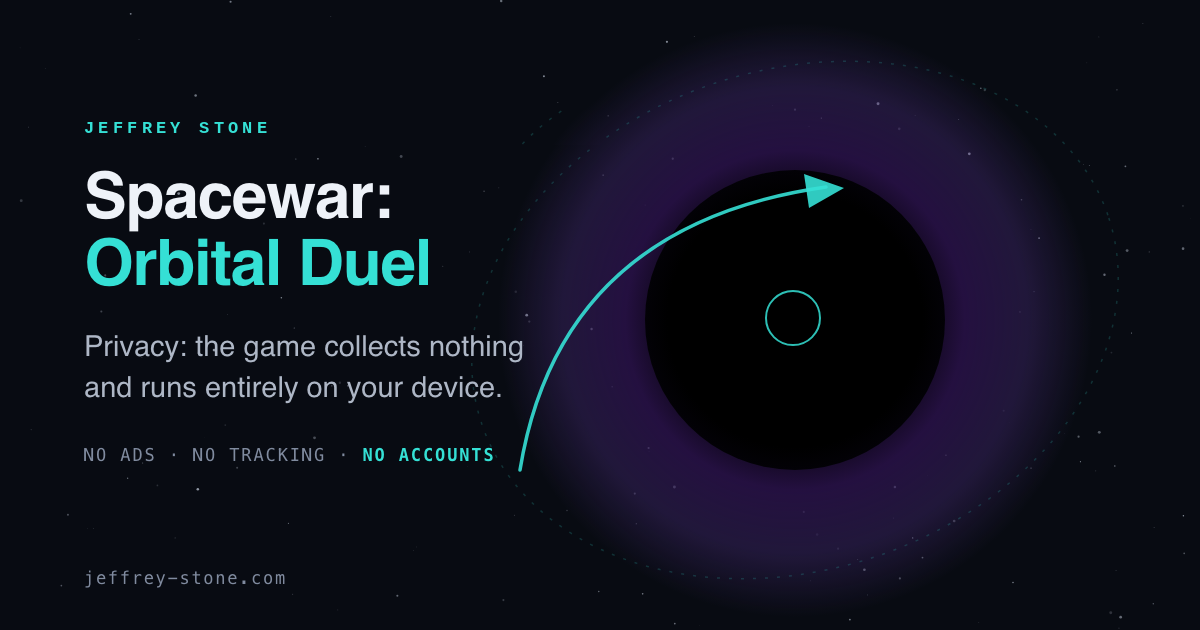
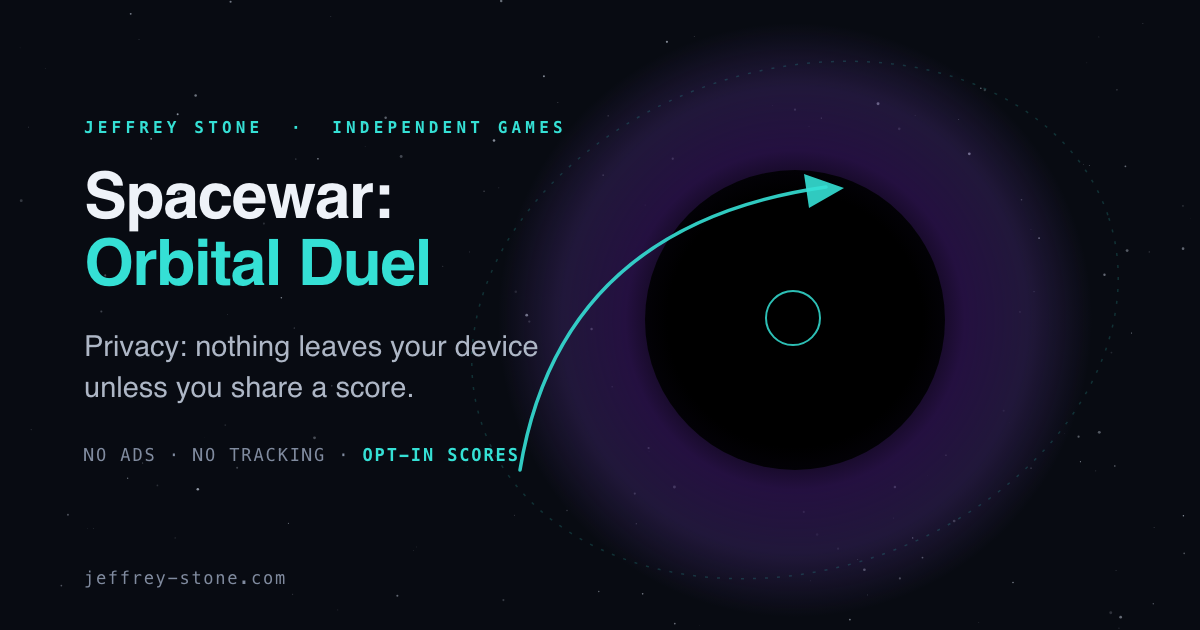
Publish site

diff --git a/spacewar/privacy/index.html b/spacewar/privacy/index.html
@@ -4,10 +4,10 @@
 <meta charset="utf-8">
 <meta name="viewport" content="width=device-width, initial-scale=1">
 <title>Spacewar privacy | Jeffrey Stone</title>
-<meta name="description" content="Privacy policy for Spacewar: Orbital Duel. The game collects nothing: no analytics, no ads, no accounts, no network services.">
+<meta name="description" content="Privacy policy for Spacewar: Orbital Duel. The game collects nothing unless you share a high score: no analytics, no ads, no accounts.">
 <meta name="color-scheme" content="dark">
 <meta property="og:title" content="Privacy | Spacewar: Orbital Duel">
-<meta property="og:description" content="Spacewar collects nothing. It runs entirely on your device.">
+<meta property="og:description" content="Spacewar collects nothing unless you share a score. It runs on your device.">
 <meta property="og:type" content="website">
 <meta property="og:site_name" content="Jeffrey Stone">
 <link rel="canonical" href="https://jeffrey-stone.com/spacewar/privacy/">
@@ -15,10 +15,10 @@
 <meta property="og:image" content="https://jeffrey-stone.com/assets/og-privacy.png">
 <meta property="og:image:width" content="1200">
 <meta property="og:image:height" content="630">
-<meta property="og:image:alt" content="Spacewar: Orbital Duel. Privacy: the game collects nothing and runs entirely on your device.">
+<meta property="og:image:alt" content="Spacewar: Orbital Duel. Privacy: the game collects nothing unless you share a score.">
 <meta name="twitter:card" content="summary_large_image">
 <meta name="twitter:title" content="Privacy | Spacewar: Orbital Duel">
-<meta name="twitter:description" content="Spacewar collects nothing. It runs entirely on your device.">
+<meta name="twitter:description" content="Spacewar collects nothing unless you share a score. It runs on your device.">
 <meta name="twitter:image" content="https://jeffrey-stone.com/assets/og-privacy.png">
 <link rel="icon" type="image/svg+xml" href="../../assets/icon.svg">
 <link rel="icon" href="../../assets/apple-touch-icon.png" sizes="180x180">
@@ -47,16 +47,29 @@
   <div class="wrap">
     <p class="crumb"><a href="../../spacewar/">&larr; Spacewar: Orbital Duel</a></p>
     <p class="eyebrow">Privacy</p>
-    <h1>Spacewar collects nothing</h1>
+    <h1>Spacewar collects nothing unless you share a score</h1>
   </div>
 </div>
 
 <section>
   <div class="wrap">
     <div class="prose">
-<!-- spacewar-privacy -->\n      <p>Spacewar: Orbital Duel does not collect, store, or transmit any personal data. The game runs entirely on your device. It uses no analytics, no advertising, no accounts, and no network services. Nothing is gathered by the developer or shared with any third party.</p>
-      <p>Because the game gathers no data, there is nothing to request, correct, or delete. If Apple's TestFlight and App Store, or Google Play, collect anything as part of distributing the game, that is governed by <a href="https://www.apple.com/legal/privacy/">Apple's privacy policy</a> or <a href="https://policies.google.com/privacy">Google's privacy policy</a>, not this one.</p>
-\n<!-- /spacewar-privacy -->      <p class="mono-line muted" style="font-family:var(--font-mono); font-size:14px; margin-top:28px; color:var(--muted);">Questions: <a href="../../support/">support</a> &nbsp;·&nbsp; <a href="mailto:support@jeffrey-stone.com">support@jeffrey-stone.com</a> &nbsp;·&nbsp; Last updated November 2026</p>
+<!-- spacewar-privacy -->
+      <p>Spacewar: Orbital Duel runs on your device. It uses no analytics, no advertising and no accounts. The one thing it can send is a high score, and only after you turn sharing on.</p>
+      <h2 class="sub-label" style="margin-top:44px;">What the game keeps on your device</h2>
+      <p>Your settings, the high score table (three initials, a score and the level reached for each run), a run in progress, and a random id made on your device for the score board. None of it leaves the device unless you share.</p>
+      <h2 class="sub-label" style="margin-top:44px;">What sharing sends, if you turn it on</h2>
+      <p>The HIGH SCORES screen has a WORLD view: every player's shared runs, from iPhones and Android devices alike, kept on a server the developer runs. Its SHARE MY SCORES button is off until you tap it. With sharing on, each run on your table is sent once, over an encrypted connection: your initials, the score, the level reached, whether you played on a phone or a tablet, the game's version, and the random id of this install. Nothing else about you: no name, no account, no location, no contacts. Opening the WORLD view sends the install id alone, so the game can show your own rows in gold and your place among the shared runs.</p>
+      <p>Initials the developer judges offensive are shown on the board as three dashes; the score keeps its place.</p>
+      <h2 class="sub-label" style="margin-top:44px;">Your control</h2>
+      <p>Tap the sharing button again to stop. Stopping removes every run from this install from the board, and an UNDO shows for a few seconds if you change your mind. Clearing the table on your device does not touch the board. If you delete and reinstall the game, the new install has a new id, and runs shared by the old one stay on the board; to have those removed, write to support with the initials, score and level, and they will be taken down.</p>
+      <h2 class="sub-label" style="margin-top:44px;">The App Store privacy label</h2>
+      <p>Data collected, not linked to your identity: Gameplay Content (the shared runs), Identifiers (the random install id). Purpose: App Functionality. Not used for tracking. Nothing is collected unless sharing is on.</p>
+      <h2 class="sub-label" style="margin-top:44px;">The Google Play data safety form</h2>
+      <p>Data collected, optional, not shared with third parties, not linked to your identity: Other user-generated content (the initials, score and level of a shared run), Device or other IDs (the random install id). Purpose: app functionality. Encrypted in transit; removed when you stop sharing, or on request. Nothing is collected unless sharing is on.</p>
+      <h2 class="sub-label" style="margin-top:44px;">The App Store and Google Play</h2>
+      <p>If Apple's TestFlight and App Store, or Google Play, collect anything as part of distributing the game, that is governed by <a href="https://www.apple.com/legal/privacy/">Apple's privacy policy</a> or <a href="https://policies.google.com/privacy">Google's privacy policy</a>, not this one.</p>
+<!-- /spacewar-privacy -->      <p class="mono-line muted" style="font-family:var(--font-mono); font-size:14px; margin-top:28px; color:var(--muted);">Questions: <a href="../../support/">support</a> &nbsp;·&nbsp; <a href="mailto:support@jeffrey-stone.com">support@jeffrey-stone.com</a> &nbsp;·&nbsp; Last updated November 16, 2026</p>
     </div>
   </div>
 </section>

diff --git a/privacy/index.html b/privacy/index.html
@@ -4,20 +4,20 @@
 <meta charset="utf-8">
 <meta name="viewport" content="width=device-width, initial-scale=1">
 <title>Privacy | Jeffrey Stone</title>
-<meta name="description" content="What jeffrey-stone.com and its two apps collect. The site and Spacewar: Orbital Duel collect nothing. Rabbitbrush: Plant ID collects nothing unless you turn sharing on.">
+<meta name="description" content="What jeffrey-stone.com and its two apps collect. The site collects nothing. Spacewar: Orbital Duel and Rabbitbrush: Plant ID collect nothing unless you turn sharing on.">
 <meta name="color-scheme" content="dark">
 <meta property="og:title" content="Privacy | Jeffrey Stone">
-<meta property="og:description" content="The site and Spacewar collect nothing. Rabbitbrush collects nothing unless you turn sharing on.">
+<meta property="og:description" content="The site collects nothing. Spacewar and Rabbitbrush collect nothing unless you turn sharing on.">
 <meta property="og:type" content="website">
 <meta property="og:site_name" content="Jeffrey Stone">
 <meta property="og:url" content="https://jeffrey-stone.com/privacy/">
 <meta property="og:image" content="https://jeffrey-stone.com/assets/og-privacy-site.png">
 <meta property="og:image:width" content="1200">
 <meta property="og:image:height" content="630">
-<meta property="og:image:alt" content="Privacy for the site and its apps: the site and Spacewar collect nothing; Rabbitbrush collects nothing unless you turn sharing on.">
+<meta property="og:image:alt" content="Privacy for the site and its apps: the site collects nothing; Spacewar and Rabbitbrush collect nothing unless you turn sharing on.">
 <meta name="twitter:card" content="summary_large_image">
 <meta name="twitter:title" content="Privacy | Jeffrey Stone">
-<meta name="twitter:description" content="The site and Spacewar collect nothing. Rabbitbrush collects nothing unless you turn sharing on.">
+<meta name="twitter:description" content="The site collects nothing. Spacewar and Rabbitbrush collect nothing unless you turn sharing on.">
 <meta name="twitter:image" content="https://jeffrey-stone.com/assets/og-privacy-site.png">
 <link rel="icon" type="image/svg+xml" href="../assets/icon.svg">
 <link rel="icon" href="../assets/apple-touch-icon.png" sizes="180x180">
@@ -66,12 +66,24 @@
   <div class="wrap">
     <div class="flag">
       <p class="eyebrow" style="margin:0;">Spacewar: Orbital Duel</p>
-      <span class="badge">Collects nothing</span>
+      <span class="badge">Collects nothing unless you share</span>
     </div>
     <div class="prose">
-      <p>Spacewar: Orbital Duel does not collect, store, or transmit any personal data. The game runs entirely on your device. It uses no analytics, no advertising, no accounts, and no network services. Nothing is gathered by the developer or shared with any third party.</p>
-      <p>Because the game gathers no data, there is nothing to request, correct, or delete. If Apple's TestFlight and App Store, or Google Play, collect anything as part of distributing the game, that is governed by <a href="https://www.apple.com/legal/privacy/">Apple's privacy policy</a> or <a href="https://policies.google.com/privacy">Google's privacy policy</a>, not this one.</p>
-      <p class="mono-line muted" style="font-family:var(--font-mono); font-size:14px; margin-top:28px; color:var(--muted);">The game's own page: <a href="../spacewar/privacy/">jeffrey-stone.com/spacewar/privacy/</a> &nbsp;·&nbsp; Last updated November 2026</p>
+      <p>Spacewar: Orbital Duel runs on your device. It uses no analytics, no advertising and no accounts. The one thing it can send is a high score, and only after you turn sharing on.</p>
+      <h2 class="sub-label" style="margin-top:44px;">What the game keeps on your device</h2>
+      <p>Your settings, the high score table (three initials, a score and the level reached for each run), a run in progress, and a random id made on your device for the score board. None of it leaves the device unless you share.</p>
+      <h2 class="sub-label" style="margin-top:44px;">What sharing sends, if you turn it on</h2>
+      <p>The HIGH SCORES screen has a WORLD view: every player's shared runs, from iPhones and Android devices alike, kept on a server the developer runs. Its SHARE MY SCORES button is off until you tap it. With sharing on, each run on your table is sent once, over an encrypted connection: your initials, the score, the level reached, whether you played on a phone or a tablet, the game's version, and the random id of this install. Nothing else about you: no name, no account, no location, no contacts. Opening the WORLD view sends the install id alone, so the game can show your own rows in gold and your place among the shared runs.</p>
+      <p>Initials the developer judges offensive are shown on the board as three dashes; the score keeps its place.</p>
+      <h2 class="sub-label" style="margin-top:44px;">Your control</h2>
+      <p>Tap the sharing button again to stop. Stopping removes every run from this install from the board, and an UNDO shows for a few seconds if you change your mind. Clearing the table on your device does not touch the board. If you delete and reinstall the game, the new install has a new id, and runs shared by the old one stay on the board; to have those removed, write to support with the initials, score and level, and they will be taken down.</p>
+      <h2 class="sub-label" style="margin-top:44px;">The App Store privacy label</h2>
+      <p>Data collected, not linked to your identity: Gameplay Content (the shared runs), Identifiers (the random install id). Purpose: App Functionality. Not used for tracking. Nothing is collected unless sharing is on.</p>
+      <h2 class="sub-label" style="margin-top:44px;">The Google Play data safety form</h2>
+      <p>Data collected, optional, not shared with third parties, not linked to your identity: Other user-generated content (the initials, score and level of a shared run), Device or other IDs (the random install id). Purpose: app functionality. Encrypted in transit; removed when you stop sharing, or on request. Nothing is collected unless sharing is on.</p>
+      <h2 class="sub-label" style="margin-top:44px;">The App Store and Google Play</h2>
+      <p>If Apple's TestFlight and App Store, or Google Play, collect anything as part of distributing the game, that is governed by <a href="https://www.apple.com/legal/privacy/">Apple's privacy policy</a> or <a href="https://policies.google.com/privacy">Google's privacy policy</a>, not this one.</p>
+      <p class="mono-line muted" style="font-family:var(--font-mono); font-size:14px; margin-top:28px; color:var(--muted);">The game's own page: <a href="../spacewar/privacy/">jeffrey-stone.com/spacewar/privacy/</a> &nbsp;·&nbsp; Last updated November 16, 2026</p>
     </div>
   </div>
 </section>
